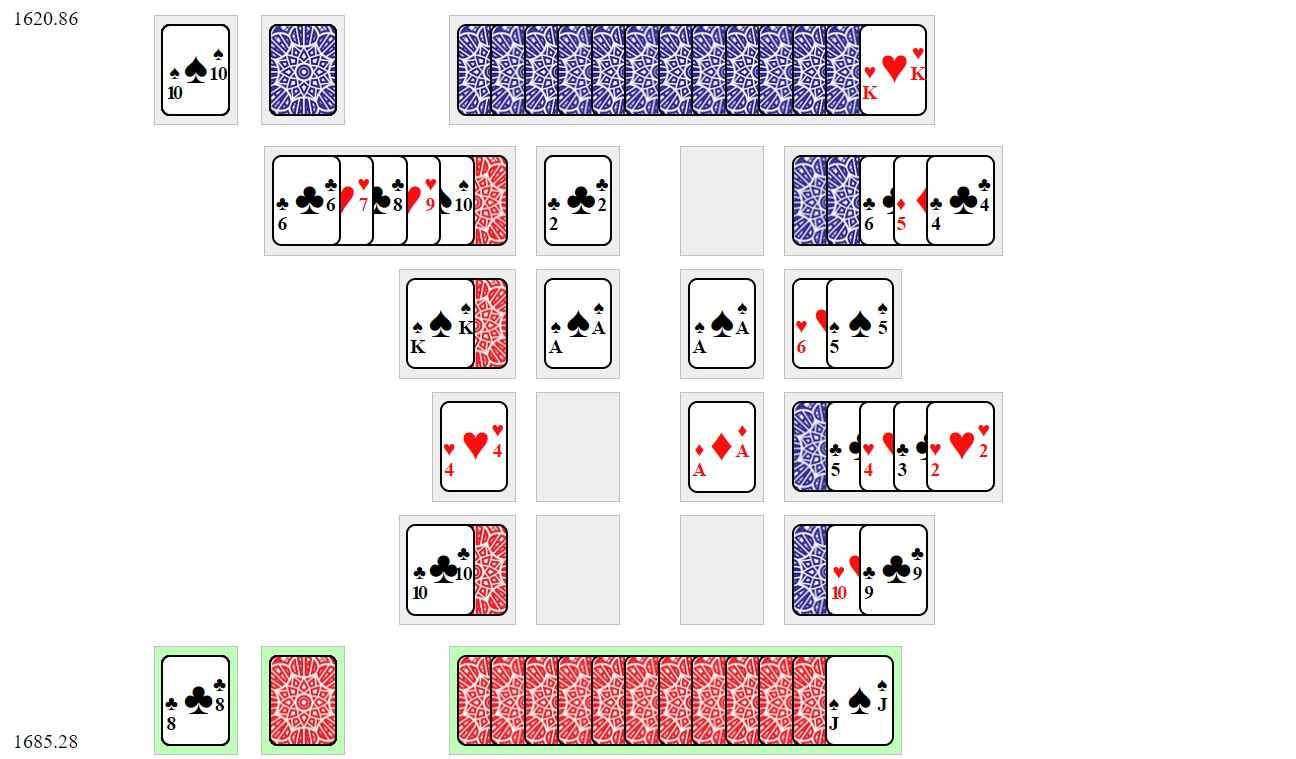
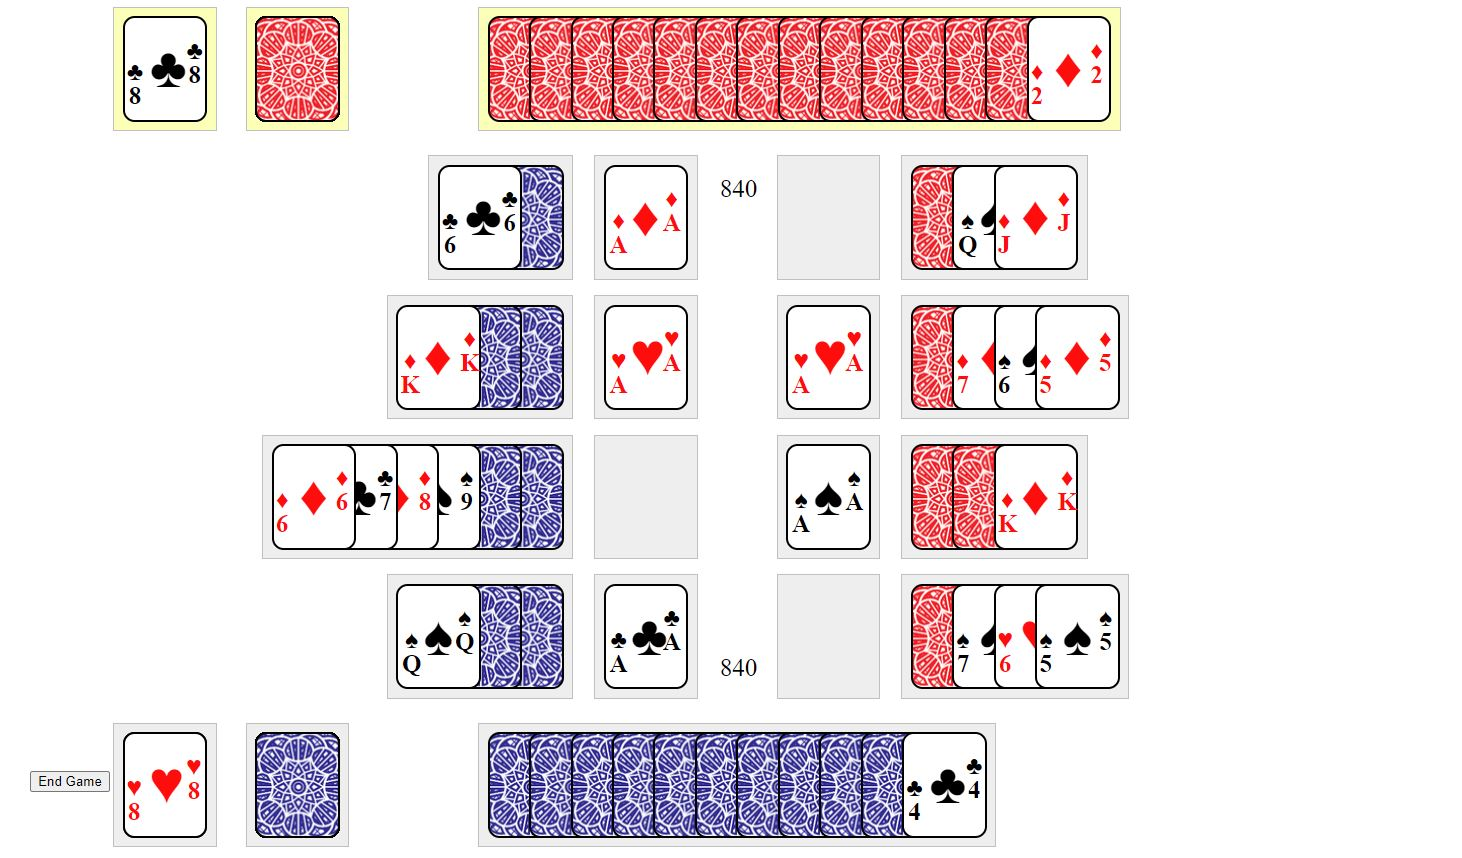
new screenshot and style changes

Changed region(s): [[0.0, 0.0, 0.7716, 1.0], [0.0309, 0.8485, 0.2778, 1.0], [0.0, 0.9697, 0.0617, 1.0]]

diff --git a/react-client/src/Game.js b/react-client/src/Game.js
@@ -150,8 +150,8 @@ export default class Game extends React.Component{
                     </div>
                     <div  style = {{
                         position: 'fixed',
-                        marginTop : '82vmin',
-                        marginLeft : '75vmax',
+                        marginTop : '88vmin',
+                        marginLeft : '0vmax',
                         }}><button>
                             End Game
                         </button>
@@ -343,24 +343,24 @@ function Stack (props) {
             return '12.5vmax'   
         if(!props.player) {
             if(props.stackname.includes('tableau0'))
-                return '60vmax'
+                return '59.5vmax'
             if(props.stackname.includes('tableau1'))
-                return '60vmax'
+                return '59.5vmax'
             if(props.stackname.includes('tableau2'))
-                return '60vmax'
+                return '59.5vmax'
             if(props.stackname.includes('tableau3'))
-                return '60vmax'
+                return '59.5vmax'
         }
       
         if(!props.player) {
             if(props.stackname.includes('foundation0'))
-                return '41.5vmax'
+                return '40.8vmax'
             if(props.stackname.includes('foundation1'))
-                return '41.5vmax'
+                return '40.8vmax'
             if(props.stackname.includes('foundation2'))
-                return '41.5vmax'
+                return '40.8vmax'
             if(props.stackname.includes('foundation3'))
-                return '41.5vmax'
+                return '40.8vmax'
         }
         if(props.player) {
             if(props.stackname.includes('foundation0'))
@@ -376,13 +376,13 @@ function Stack (props) {
     function rightValue () {
         if(props.player) {
             if(props.stackname.includes('tableau0'))
-                return '59.8vmax'
+                return '-36vmax'
             if(props.stackname.includes('tableau1'))
-                return '59.8vmax'
+                return '-36vmax'
             if(props.stackname.includes('tableau2'))
-                return '59.8vmax'
+                return '-36vmax'
             if(props.stackname.includes('tableau3'))
-                return '59.8vmax'
+                return '-36vmax'
         }
     }
     function backgroundcolor() {
@@ -412,7 +412,7 @@ function Stack (props) {
             style = {{
                 border: '.01vmax  solid Silver',
                 backgroundColor: backgroundcolor(),
-                position : 'fixed',
+                position : 'absolute',
                 left : leftValue(),
                 right : rightValue(),
                 top : topValues(),
